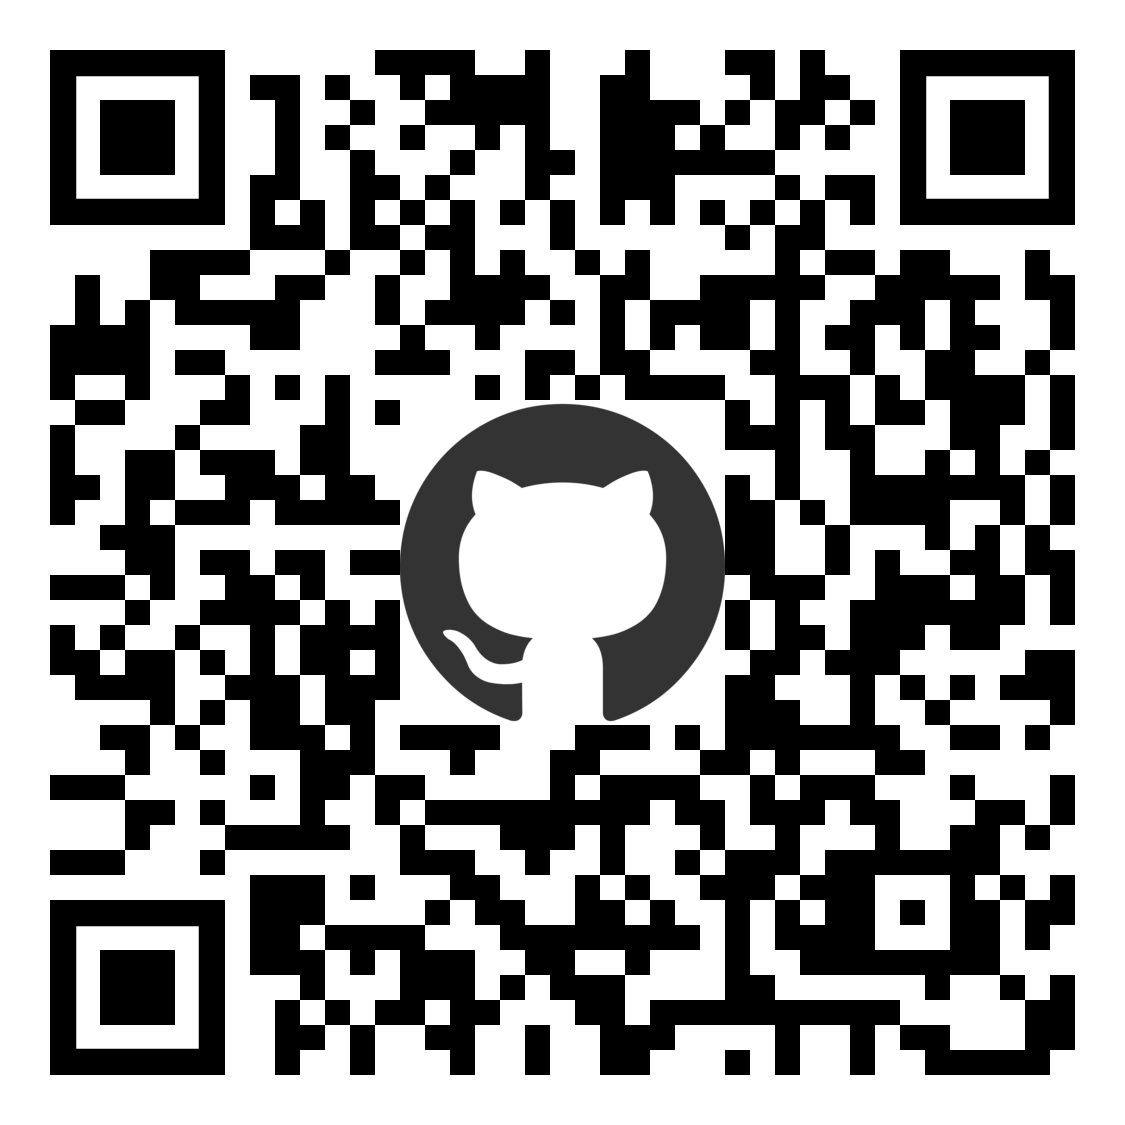
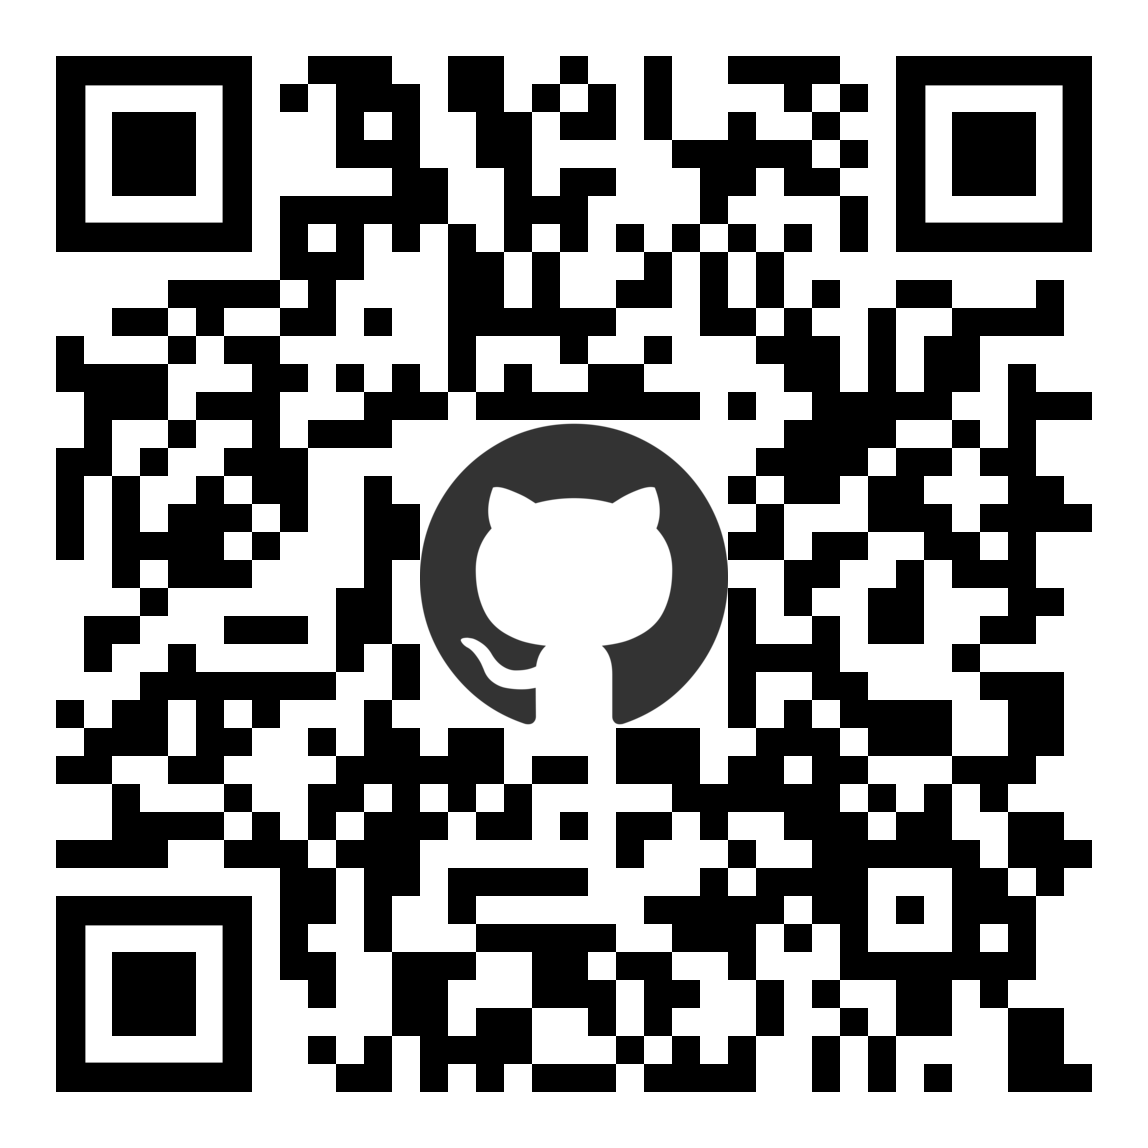
Update Github code for Neovim conf

diff --git a/neovim-is-my-editor/index.html b/neovim-is-my-editor/index.html
@@ -55,7 +55,7 @@
           <div class="flex-column">
             <div class="flex-row">
               <div class="flex-column">
-                <span>Le POC 💪</span>
+                <span>Ma conf Neovim 💪</span>
                 <img
                   src="assets/qr-code-github.png"
                   style="width: 40vw"
